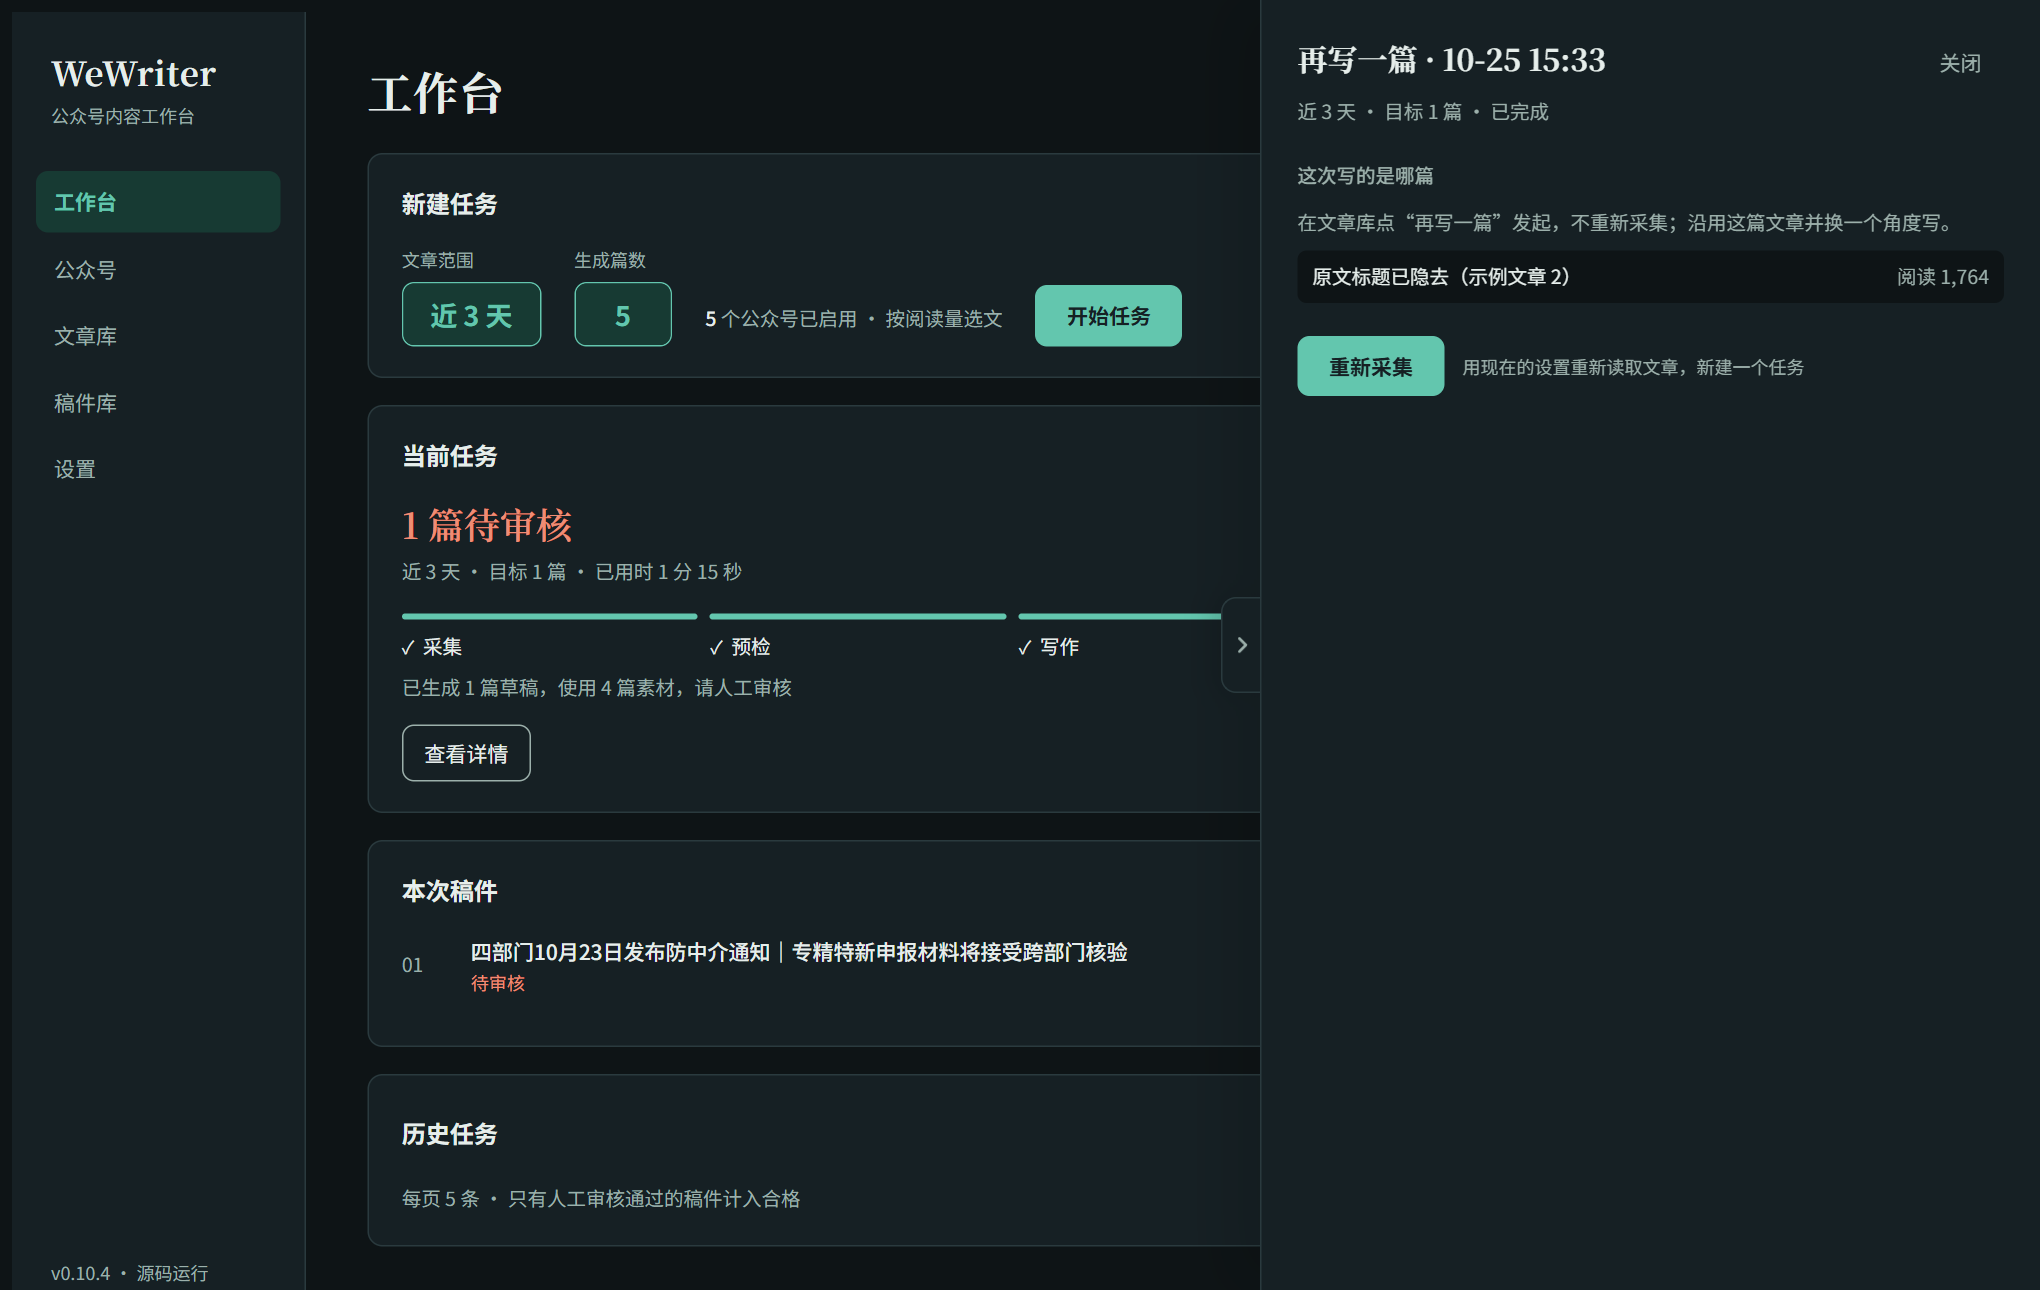
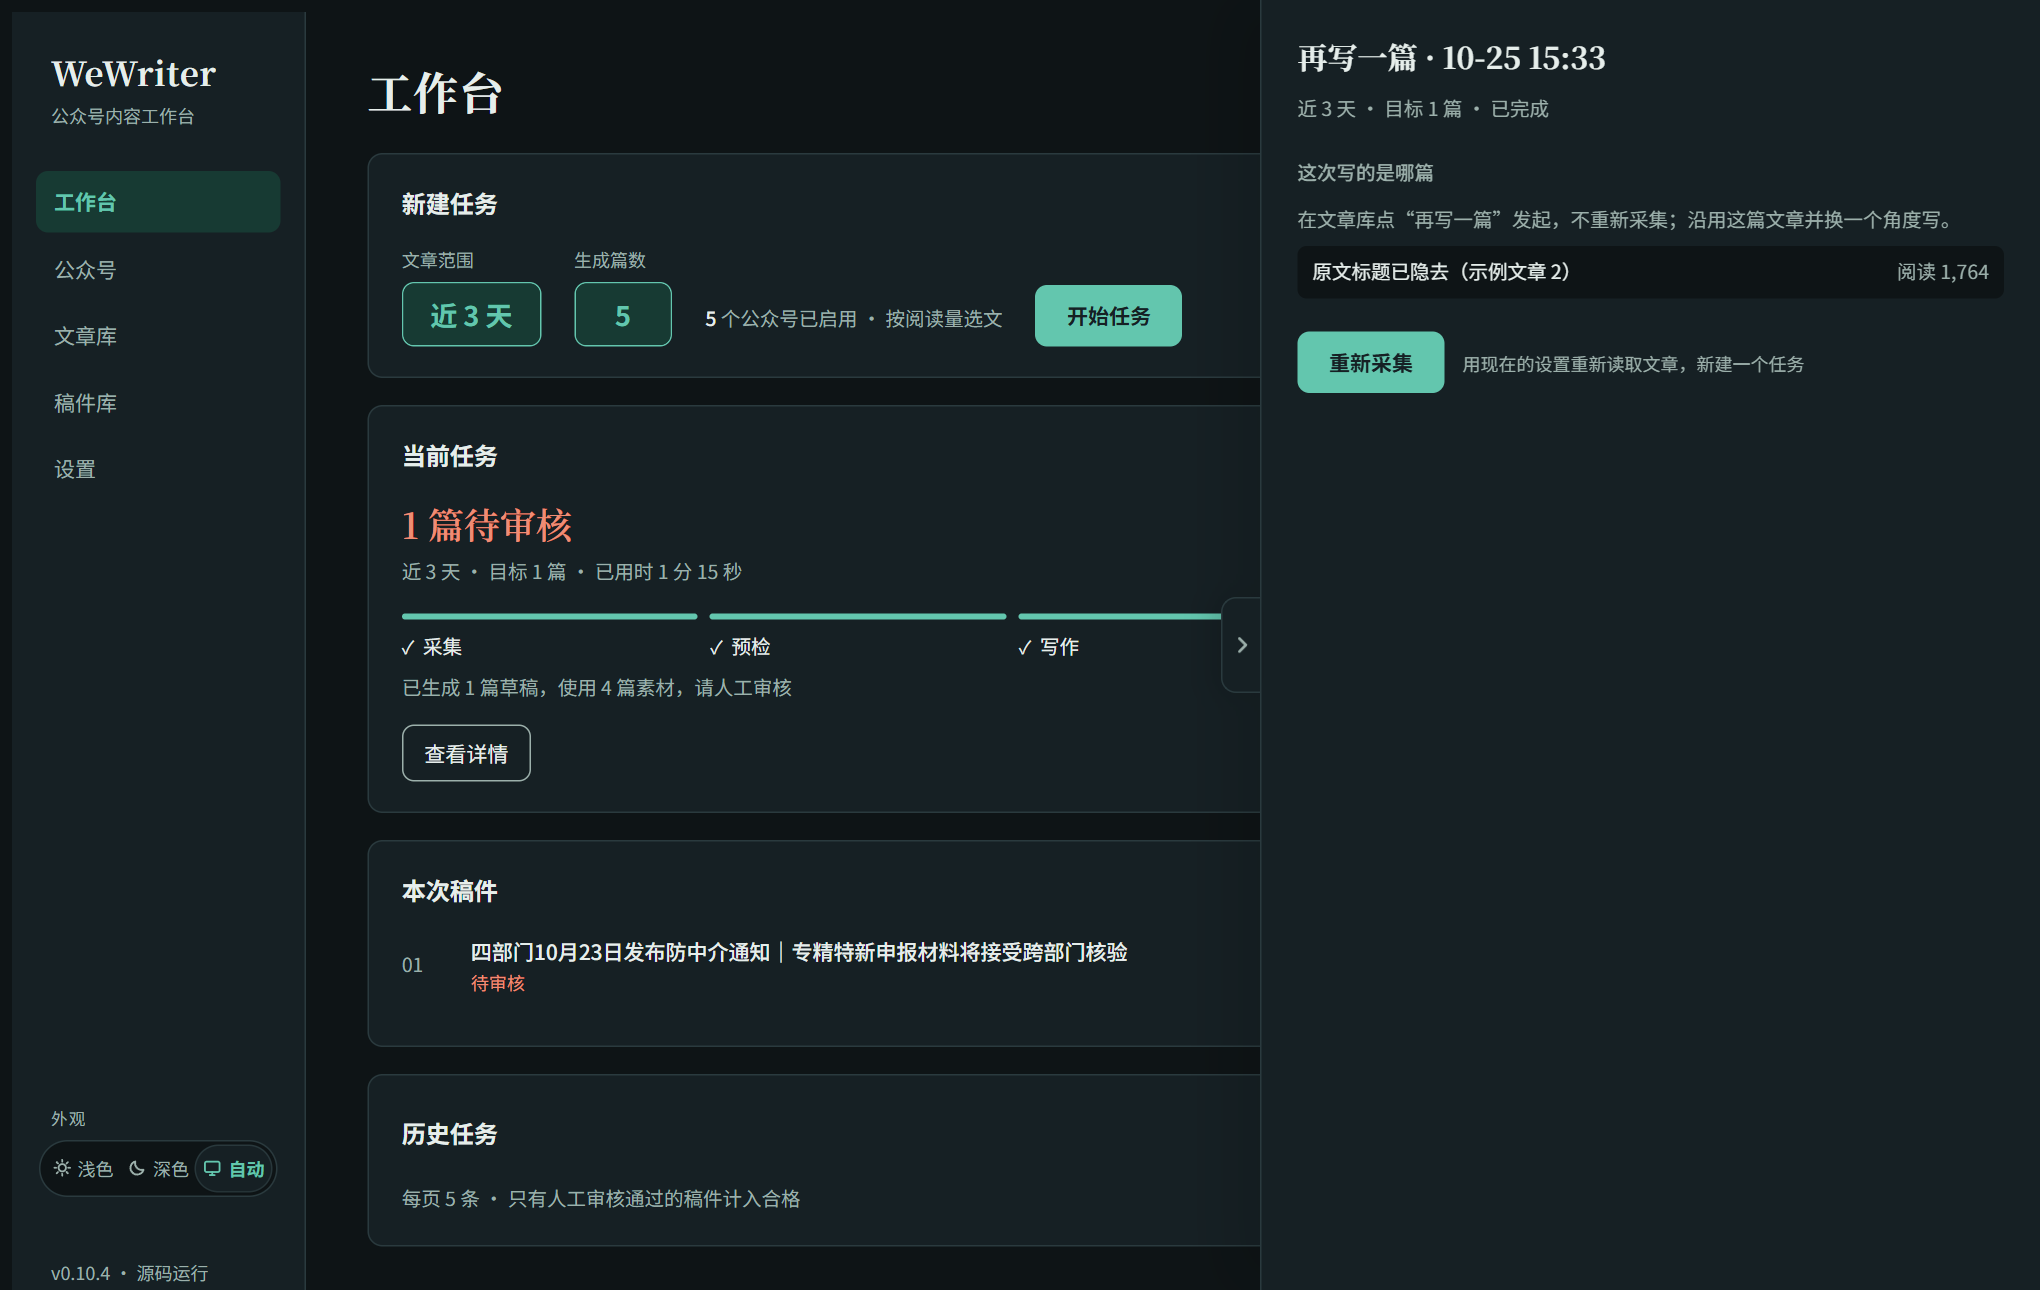
feat: light/dark/auto appearance switch in the sidebar; drop drawer close buttons

diff --git a/wewriter/web/common.js b/wewriter/web/common.js
@@ -55,10 +55,35 @@ function buildNav(current) {
   nav.innerHTML = PAGES.map(([id, label]) =>
     `<button ${id === current ? 'aria-current="page"' : ''} data-page="${id}">${label}</button>`).join('');
   nav.addEventListener('click', e => { const b = e.target.closest('[data-page]'); if (b && b.dataset.page !== current) go(b.dataset.page); });
+  const foot = $('foot');
+  if (foot) foot.insertAdjacentHTML('beforebegin', `<div class="theme-box"><span class="theme-label">外观</span>
+    <div class="theme" id="theme" role="radiogroup" aria-label="外观"><span class="thumb" aria-hidden="true"></span>${THEMES.map(([v, l, icon]) =>
+    `<button role="radio" data-theme="${v}" aria-checked="false" title="${l}">${icon}<span>${l}</span></button>`).join('')}</div></div>`);
+  $('theme')?.addEventListener('click', async e => {
+    const b = e.target.closest('[data-theme]'); if (!b) return;
+    applyTheme(b.dataset.theme); await call('ui_theme', b.dataset.theme);
+  });
+  applyTheme(cachedTheme());
   ready(async () => {
     const m = await call('meta');
     if (m && $('foot')) $('foot').textContent = m.version + (m.demo ? ' · 演示数据' : '');
+    if (m && m.theme) applyTheme(m.theme);
   });
+}
+
+/* Appearance: follow Windows, or force light/dark. Saved by the app (ui.json) and cached per session to avoid a flash. */
+const ICON = d => `<svg viewBox="0 0 16 16" fill="none" stroke="currentColor" stroke-width="1.5" stroke-linecap="round" stroke-linejoin="round" aria-hidden="true">${d}</svg>`;
+const THEMES = [
+  ['light', '浅色', ICON('<circle cx="8" cy="8" r="3"/><path d="M8 1.5v1.6M8 12.9v1.6M1.5 8h1.6M12.9 8h1.6M3.4 3.4l1.1 1.1M11.5 11.5l1.1 1.1M3.4 12.6l1.1-1.1M11.5 4.5l1.1-1.1"/>')],
+  ['dark', '深色', ICON('<path d="M13.2 9.6A5.5 5.5 0 0 1 6.4 2.8a5.5 5.5 0 1 0 6.8 6.8z"/>')],
+  ['system', '自动', ICON('<rect x="2" y="3" width="12" height="8.5" rx="1.5"/><path d="M6 14h4M8 11.5V14"/>')]];
+function cachedTheme() { try { return sessionStorage.getItem('theme') || 'system'; } catch (_) { return 'system'; } }
+function applyTheme(theme) {
+  if (theme === 'light' || theme === 'dark') document.documentElement.dataset.theme = theme;
+  else delete document.documentElement.dataset.theme;
+  try { sessionStorage.setItem('theme', theme); } catch (_) {}
+  document.querySelectorAll('#theme [data-theme]').forEach(b => b.setAttribute('aria-checked', String(b.dataset.theme === theme)));
+  const box = $('theme'); if (box) box.dataset.v = theme;
 }
 
 function elapsedText(s) {
@@ -74,6 +99,25 @@ document.head.insertAdjacentHTML('beforeend', `<style>
 .cbox-row { display: flex; gap: 8px; justify-content: flex-end; flex-wrap: wrap; }
 .toast { position: fixed; left: 50%; bottom: 28px; transform: translateX(-50%); background: var(--ink); color: var(--sheet); padding: 8px 16px; border-radius: 8px; font-size: 13px; z-index: 60; max-width: calc(100% - 32px); }
 .loading { color: var(--ink-2); font-size: 13px; padding: 18px 0; }
+/* The side tab closes drawers; the old text button stays only as the tab's click target. */
+#dw-close { display: none !important; }
+.rail .theme-box { margin-top: auto; display: grid; gap: 6px; padding: 0 2px; }
+.rail .theme-label { font-size: 11px; letter-spacing: .08em; color: var(--ink-2); padding-left: 8px; }
+.rail .theme { position: relative; display: grid; grid-template-columns: repeat(3, 1fr); padding: 3px; border-radius: 999px;
+  background: var(--ground); border: 1px solid var(--rule); }
+.rail .theme .thumb { position: absolute; top: 3px; bottom: 3px; left: 3px; width: calc((100% - 6px) / 3); border-radius: 999px;
+  background: var(--sheet); box-shadow: 0 1px 3px rgb(0 0 0 / .18), 0 0 0 1px var(--rule); transition: transform .25s cubic-bezier(.3, .7, .2, 1); }
+.rail .theme[data-v="dark"] .thumb { transform: translateX(100%); }
+.rail .theme[data-v="system"] .thumb { transform: translateX(200%); }
+.rail .theme button { position: relative; z-index: 1; display: flex; align-items: center; justify-content: center; gap: 4px;
+  border: 0; background: transparent; color: var(--ink-2); font: inherit; font-size: 12px; padding: 5px 0; border-radius: 999px; cursor: pointer; transition: color .2s; }
+.rail .theme button svg { width: 13px; height: 13px; flex: none; }
+.rail .theme button:hover { color: var(--ink); }
+.rail .theme button[aria-checked="true"] { color: var(--jade); font-weight: 600; }
+.rail .theme button:focus-visible { outline: 2px solid var(--focus); outline-offset: 1px; }
+.rail .theme-box + .foot { margin-top: 12px; }
+@media (prefers-reduced-motion: reduce) { .rail .theme .thumb { transition: none; } }
+@media (max-width: 760px) { .rail .theme-box { margin: 0 0 0 auto; } .rail .theme-label { display: none; } .rail .theme button span { display: none; } .rail .theme button { padding: 5px 9px; } }
 </style>`);
 
 // Side drawers: a collapse tab on the drawer's left edge, always at mid-height, so closing never

diff --git a/wewriter/webapp.py b/wewriter/webapp.py
@@ -119,6 +119,18 @@ class Backend:
         self.current_job_id = job['id']
         self.start_worker(lambda: self.engine.run(job['run_key'], config))
 
+    # Display preferences live beside the database, not in the task config, so changing the
+    # look never touches a frozen task configuration.
+    def ui_prefs(self):
+        try:
+            return json.loads((Path(self.data_dir) / 'ui.json').read_text(encoding='utf-8'))
+        except (OSError, ValueError):
+            return {}
+
+    def save_ui_prefs(self, **values):
+        prefs = {**self.ui_prefs(), **values}
+        (Path(self.data_dir) / 'ui.json').write_text(json.dumps(prefs, ensure_ascii=False), encoding='utf-8')
+
     def queued(self):
         return self.db.rows("SELECT * FROM jobs WHERE status='等待中' AND stage='排队中' ORDER BY id")
 
@@ -199,7 +211,14 @@ class Api:
     @_safe
     def meta(self):
         return {'version': version_text(), 'demo': self._b.demo, 'busy': self._b.busy,
-                'message': self._b.last_message}
+                'message': self._b.last_message, 'theme': self._b.ui_prefs().get('theme', 'system')}
+
+    @_safe
+    def ui_theme(self, theme):
+        if theme not in ('system', 'light', 'dark'):
+            raise ValueError('外观选项无效')
+        self._b.save_ui_prefs(theme=theme)
+        return {}
 
     # ------------------------------------------------------------ workbench
     def _job_summary(self, job):

diff --git a/tests/test_t013.py b/tests/test_t013.py
@@ -176,3 +176,23 @@ class RewriteDetailTest(unittest.TestCase):
             self.assertTrue(detail['title'].startswith('再写一篇'))
         finally:
             f.tearDown()
+
+
+class ThemePreferenceTest(unittest.TestCase):
+    def test_theme_is_saved_beside_the_database_and_validated(self):
+        import tempfile
+        from pathlib import Path
+        import test_core
+        from wewriter import webapp
+        f = test_core.CoreTest(); f.setUp()
+        try:
+            data = Path(tempfile.mkdtemp())
+            api = webapp.Api(webapp.Backend(f.db, test_core.FakeVault(), data, demo=False))
+            self.assertEqual(api.meta()['theme'], 'system')
+            self.assertTrue(api.ui_theme('light')['ok'])
+            self.assertEqual(api.meta()['theme'], 'light')
+            self.assertFalse(api.ui_theme('pink')['ok'])
+            self.assertEqual(json.loads((data / 'ui.json').read_text(encoding='utf-8')), {'theme': 'light'})
+            self.assertNotIn('theme', f.db.config())
+        finally:
+            f.tearDown()
